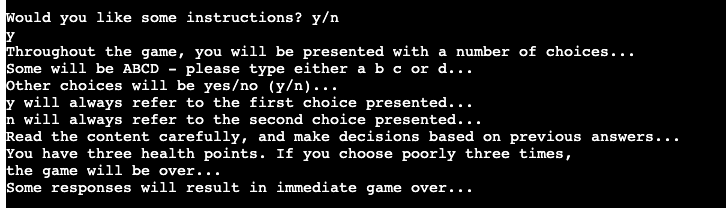
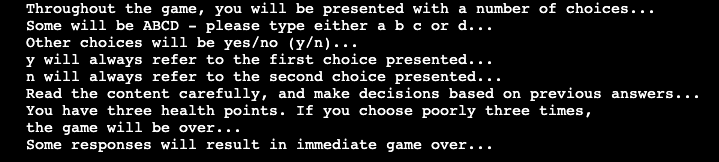
Add features content to ReadMe

Changed region(s): [[0.0, 0.0, 0.9791, 1.0]]

diff --git a/run.py b/run.py
@@ -40,6 +40,7 @@ def about_game():
     game_instructions = input("Would you like some instructions? y/n \n")
     if game_instructions == "y":
         slowprint(
+            "\n"
             "Throughout the game, you will be presented with a number of choices... \n"
             "Some will be ABCD - please type either a b c or d... \n"
             "Other choices will be yes/no (y/n)... \n"
@@ -53,6 +54,7 @@ def about_game():
         )
     else:
         slowprint(
+            "\n"
             "Okay!\n"
         )
 

diff --git a/README.md b/README.md
@@ -73,7 +73,53 @@ I centered the Play Game button and the terminal for a more appealing web design
 
 ### **Header**
 
+The header is "The Hobbit Adventure Game" to inform the User of what the site is for.
 
+![Header](docs/header.png)
 
+### **Game Button**
+
+The default Run Program button from the Code Institute template was renamed and restyled to fit the page styling.
+
+![Game Button](docs/button.png)
+
+### **Terminal**
+
+The default terminal styling from the CI template was replaced with a centered terminal which sits below the Play Game button.
+
+![Terminal](docs/terminal.png)
+
+### **Instructions**
+
+The User is presented with a y/n input request after the game blurb asking whether they would like instructions.
+If the User selects `y`, they will be given instructions.
+These inform the user on the sort of questions and required response inputs they can expect, as well as encouraging them to think carefully about their responses.
+
+![Instructions](docs/game-start.png)
+
+### **Start Game Query**
+
+Following the instructions, the User is asked whether they would like to start the game or not. This allows for good UX as the User can choose whether to continue or not.
+
+![Start Game Query](docs/start-game-query.png)
+
+### **Name Selection**
+
+The name selection is the only open input in the game. I added the .capitalize() method so the User's name is capitalized, regardless of whether they added their own capital letter.
+
+![Name Selection](docs/name-selection.png)
+
+### **Weapon Selection**
+
+After choosing a name, the User is given the first proper game choice - choosing a weapon. This is also the first abcd choice. This will influence the dialogue trees presented to the User in the rest of the game.
+The User is given some information on their chosen weapon and informed that it has been added to their inventory.
+
+![Weapon Selection](docs/weapon-selection.png)
+
+### **First Battle**
+
+The first battle contains prerequisite dialogue before the User is presented with another abcd option. The success of this battle is based on which weapon was chosen - each option corresponds with only one weapon. If the User chooses incorrectly, they will sustain an injury, which is added to their inventory.
+
+![First Battle](docs/first-battle.png)
 
 
